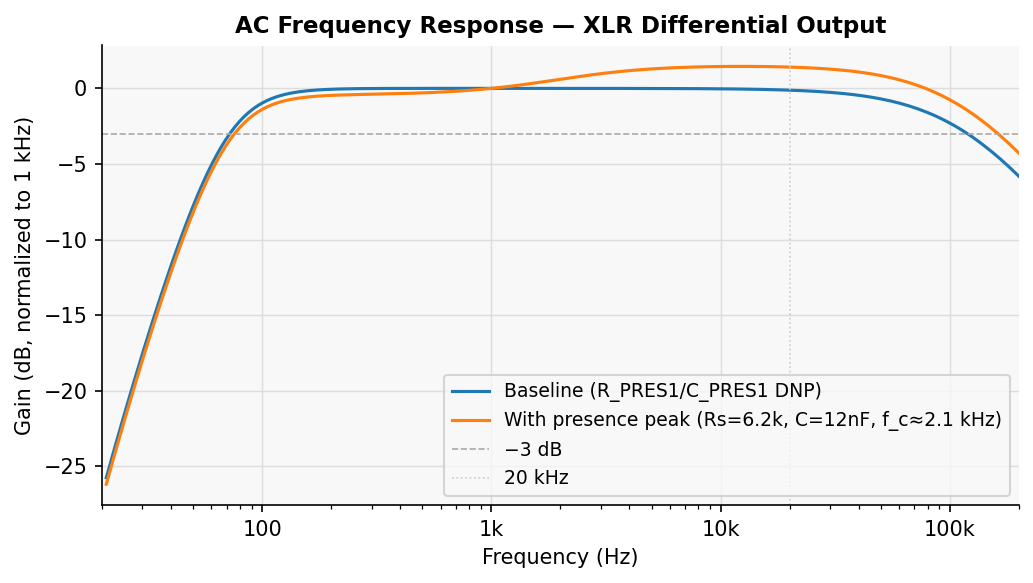
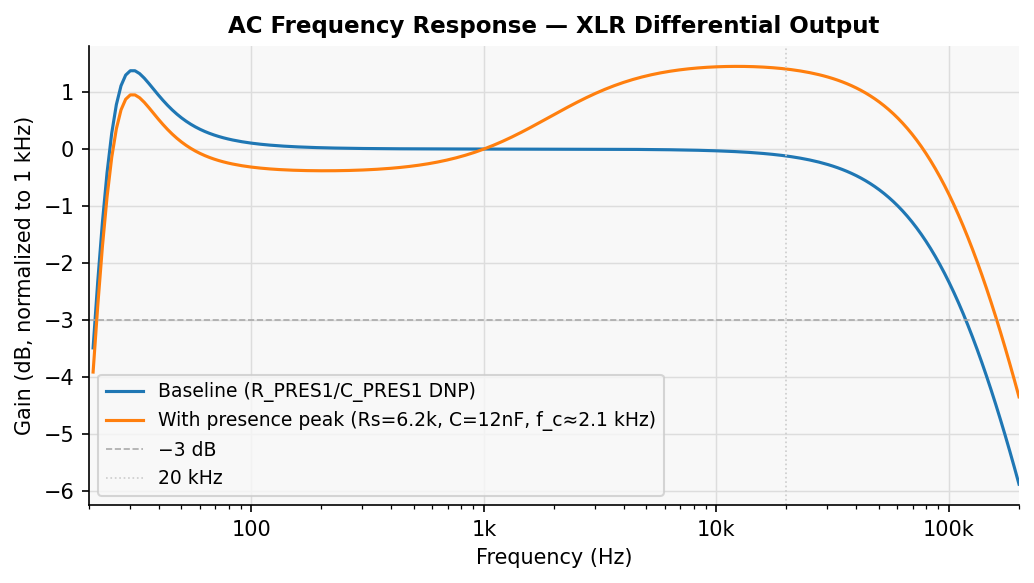
Transformer 3-turn section: Lp 8 H measured (#128)
A configuration S sweep on the 3-turn wiring fits Lp = 8 H (6 to 10 H about
as well). The earlier 1 H was a lower bound scaled from a full-winding sweep,
whose low end is set by the input network. The README's low-end note, the
measurement doc's expectation and the response plot follow; the full-winding
note gets the measured 8.8 dB (#132).

Closes #128.

Claude-Session: https://claude.ai/code/session_01JJVE6iPs7mqtayJNH2CABt

diff --git a/README.md b/README.md
@@ -44,14 +44,15 @@ Charge pump settles to ~68 V within ~1 ms. HV_FILT is RC-filtered (1 MΩ + 470 n
 
 Behavioral model, gain normalized to 1 kHz. The **blue curve** (baseline / DNP) is flat within about ±1 dB from ~500 Hz to ~20 kHz. Two high-pass mechanisms shape the low end: the input network (R_GBIAS1 ∥ R_BIAS1 = 100 MΩ against the 55 pF capsule, corner ~29 Hz) and the output DC block (C_DC = 4.7 µF) with the transformer. A third sits below them: C_G1 (10 µF) in series with R3, corner 7.2 Hz, about 0.7 dB at 20 Hz. It makes the amplifier's gain 1 at DC, so offset and leakage at the 200 MΩ input do not move the operating point (`amp_dc_offset.sp`, #123).
 
-> **Below about 100 Hz the default wiring's response is known only within a range.** The plot uses `Lp = 1 H` for the driven 3-turn section, which is a lower bound from a measurement (#114): a sweep on a board wired on the full winding fits for any full-winding inductance above about 10 H, which is 0.9 H for the 3-turn section, and cannot tell how much higher it is. With the 3-turn section the transformer's inductance against its own 521 Ω winding resistance sets a low corner, so the low end depends strongly on `Lp`:
+> **The low end of the default wiring is measured (#128).** The plot uses `Lp = 8 H` for the driven 3-turn section, fitted from a sweep on the 3-turn wiring into a 1.2 kΩ input (6 to 10 H fit about as well). With the 3-turn section the transformer's inductance against its own winding resistance (521 to 540 Ω) and C_DC sets a corner with a small resonance near 30 Hz. The earlier `Lp = 1 H` was a lower bound scaled from a full-winding sweep, whose low end is set by the input network, and it was too pessimistic.
 >
-> | `Lp` (3-turn section) | 20 Hz | 30 Hz | 50 Hz | 100 Hz |
+> | | 20 Hz | 30 Hz | 50 Hz | 100 Hz |
 > |---|---|---|---|---|
-> | 1 H (lower bound, plotted) | −27 dB | −18 dB | −8 dB | −1 dB |
-> | 4.5 H (earlier estimate) | −12 dB | −1 dB | +1 dB | 0 dB |
+> | measured, 3-turn, presence fitted, 1.2 kΩ (relative to 1 kHz) | −5.0 dB | −0.6 dB | −1.4 dB | −0.7 dB |
+> | model, `Lp = 8 H` (plotted, baseline) | −4.7 dB | +1.4 dB | +0.6 dB | +0.1 dB |
+> | model, `Lp = 1 H` (the earlier lower bound) | −27 dB | −18 dB | −8 dB | −1 dB |
 >
-> A larger C_DC does not help: the corner is set by the inductance and the winding resistance. On the full winding (inductance above 10 H) the measured response is −3 dB at 33 Hz and −5 dB at 20 Hz, set by the input network.
+> The measured row is on a board with the presence network, which lowers the band below 1 kHz by about 0.4 dB against 1 kHz. The 30 Hz bump in the model is not seen in the measurement. On the full winding the measured response is −3 dB at 33 Hz and −5 dB at 20 Hz, set by the input network.
  The **orange curve** shows the optional presence-peak network populated: +2.6 dB shelving above f_c ≈ 2.1 kHz.
 
 #### Optional presence-peak network (R_PRES1, C_PRES1)
@@ -120,7 +121,7 @@ Pad numbers run left to right as viewed from the **front** (component side). The
 | S2 (centre) | GND | **Blue** — centre tap (return) |
 | S3 (rightmost) | — (floating) | **Black** — far end of winding; leave unconnected |
 
-> **Full winding option:** swap S2 and S3 — connect **Black** (S3) to GND, leave **Blue** (S2) unconnected. This uses the complete secondary winding and reduces output level by ~10.5 dB relative to the default. Combine with the `-hi-gain` BOM variant (R6 = 47 kΩ) to partially compensate for the lower sensitivity.
+> **Full winding option:** swap S2 and S3 — connect **Black** (S3) to GND, leave **Blue** (S2) unconnected. This uses the complete secondary winding and reduces output level relative to the default by ~10.5 dB from the turns ratio, 8.8 dB as measured into a 1.2 kΩ input (#132). Combine with the `-hi-gain` BOM variant (R6 = 47 kΩ) to partially compensate for the lower sensitivity.
 
 **TS1 — 2 pads below transformer cutout (primary, XLR output)**
 

diff --git a/docs/measurement.md b/docs/measurement.md
@@ -217,7 +217,7 @@ group of inputs is optional, so a partial session still gives a partial report.
 | Result | Simulation | What a difference means |
 |---|---|---|
 | Gain at 1 kHz | about −1.0 dB into 4 kΩ with a 56 pF dummy (sensitivity about −39 dBV/Pa with a 13 mV/Pa capsule); about 0.2 dB lower on boards up to v3.6 (100 Ω RFI resistors) | more than ±1.5 dB off: check R3, R6, the load value and the meter readings |
-| Low-frequency −3 dB corner | about 30 Hz on the full winding (set by the input network); on the 3-turn section anywhere from about 25 to 80 Hz, depending on `Lp` | on the 3-turn section the fitted `Lp` is the useful result: `sim/models/passives.lib` uses its lower bound, 1 H (#114) |
+| Low-frequency −3 dB corner | about 30 Hz on the full winding (set by the input network); on the 3-turn section about 22 Hz (−5 dB at 20 Hz, nearly flat from 30 Hz) | measured on the 3-turn section, `Lp` about 8 H, which `sim/models/passives.lib` now uses (#128) |
 | Fit error | below about 1 dB | larger: the low end is not behaving like the model. Compare with the hot sweep for saturation |
 | Self-noise | about 20 dB(A) equivalent with a 47 to 56 pF dummy (19.1 with a 55 pF capsule); about 45 nV/√Hz at 1 kHz, 12 nV/√Hz at 10 kHz | higher at low frequency only: leakage or hum. Higher everywhere: supply or interface noise. Check the interface margin line |
 | Interface margin | 10 dB or more | less: raise the preamp gain and repeat S3, N1, N2 |
